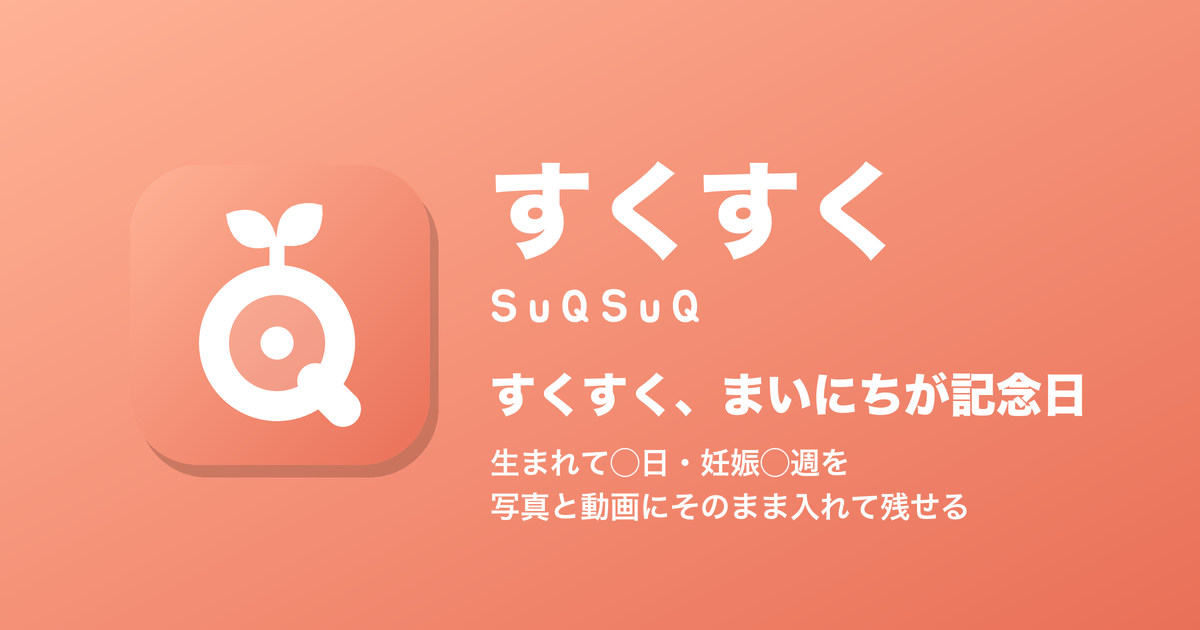
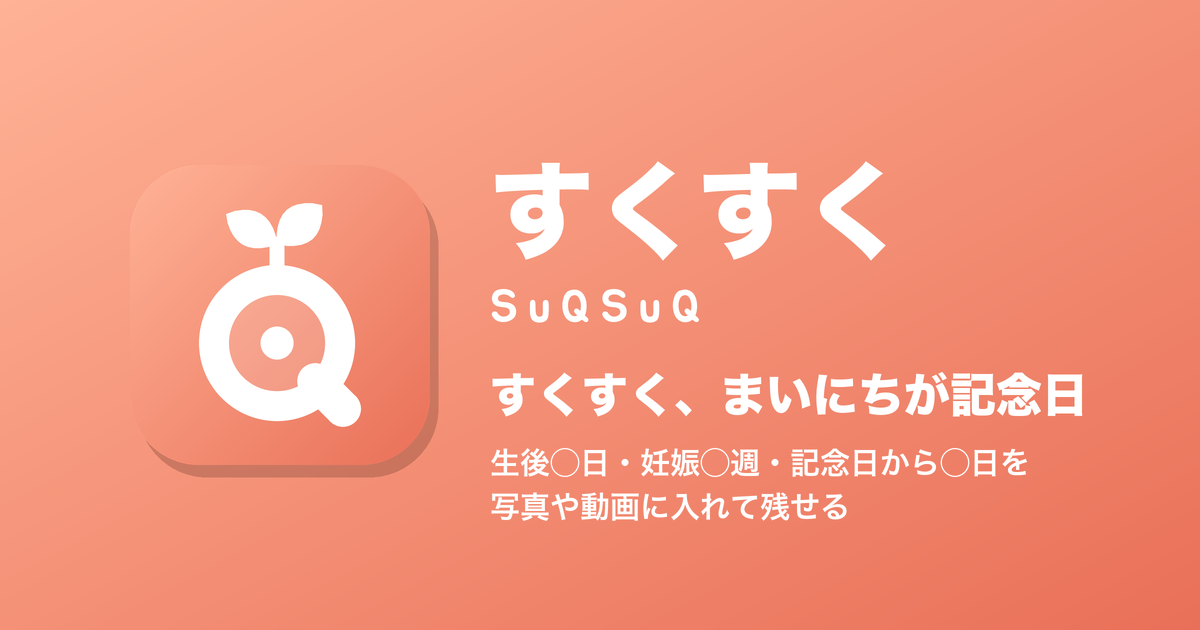
紹介の文と画像を、いまの中身（記念日から◯日も）に合わせる。題は「すくすく｜記念日フォト」に

Changed region(s): [[0.4317, 0.6937, 0.8633, 0.754], [0.555, 0.7841, 0.8017, 0.8444], [0.4625, 0.7841, 0.4933, 0.8444]]

diff --git a/index.html b/index.html
@@ -3,18 +3,18 @@
 <head>
 <meta charset="UTF-8">
 <meta name="viewport" content="width=device-width, initial-scale=1, viewport-fit=cover">
-<title>すくすく｜成長の記念日フォト</title>
-<meta name="description" content="すくすく（SuQSuQ）。生まれて◯日・生後◯か月・妊娠◯週を、写真や動画にそのまま入れて残せます。文字の形・位置・動くスタンプも選べます。">
+<title>すくすく｜記念日フォト</title>
+<meta name="description" content="すくすく（SuQSuQ）。生まれて◯日・生後◯か月・妊娠◯週・記念日から◯日を、写真や動画にそのまま入れて残せます。文字の形・位置・動くスタンプも選べます。">
 <meta property="og:type" content="website">
 <meta property="og:site_name" content="すくすく（SuQSuQ）">
-<meta property="og:title" content="すくすく｜成長の記念日フォト">
-<meta property="og:description" content="生まれて◯日・妊娠◯週を、写真と動画にそのまま入れて残せます">
+<meta property="og:title" content="すくすく｜記念日フォト">
+<meta property="og:description" content="生後◯日・妊娠◯週・記念日から◯日を、写真や動画に入れて残せます">
 <meta property="og:url" content="https://katsuan.github.io/suqsuq/">
 <meta property="og:locale" content="ja_JP">
-<meta property="og:image" content="https://katsuan.github.io/suqsuq/ogp.png?v=20261023">
+<meta property="og:image" content="https://katsuan.github.io/suqsuq/ogp.png?v=20261024">
 <meta property="og:image:width" content="1200">
 <meta property="og:image:height" content="630">
-<meta property="og:image:alt" content="すくすく（SuQSuQ）：生まれて◯日・妊娠◯週を、写真と動画にそのまま入れて残せる">
+<meta property="og:image:alt" content="すくすく（SuQSuQ）：生後◯日・妊娠◯週・記念日から◯日を、写真や動画に入れて残せる">
 <meta name="twitter:card" content="summary_large_image">
 <meta name="theme-color" content="#fff7f3" media="(prefers-color-scheme: light)">
 <meta name="theme-color" content="#16151a" media="(prefers-color-scheme: dark)">

diff --git a/tools/icon.py b/tools/icon.py
@@ -120,7 +120,7 @@ def main():
     (ROOT / "logo.svg").write_text(logo, encoding="utf-8")
     BRAND.write_ogp(
         ROOT / "ogp.png", SHAPES, "すくすく", "SuQSuQ",
-        ["生まれて◯日・妊娠◯週を", "写真と動画にそのまま入れて残せる"],
+        ["生後◯日・妊娠◯週・記念日から◯日を", "写真や動画に入れて残せる"],
         copy="すくすく、まいにちが記念日",
     )
     print(f"アイコン・logo.svg（高さ 28px なら幅 {28 * ratio:.0f}px）・ogp.png を書き出しました")
